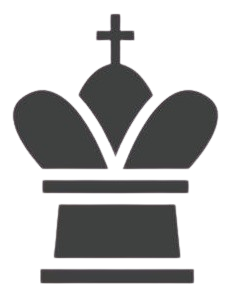
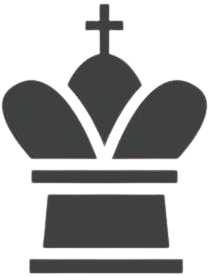
changed color screen UI

diff --git a/src/Screens/ColorScreen.jsx b/src/Screens/ColorScreen.jsx
@@ -7,16 +7,19 @@ import { useContext } from "react";
 import { UserContext } from "../Context/UserContext";
 import SocketClass from "../Socket/socketClass";
 
-function ColorScreen({ mode, waitingScreen, setWaitingScreen, setGameId }) {
+function ColorScreen({ mode, waitingScreen, setWaitingScreen, setGameId, setMode }) {
 
   const { guestId } = useContext(UserContext);
   const navigate = useNavigate();
-  const [hover, setHover] = useState();
-  const status = mode === "single player" ? "unfinished" : "waiting"
+  const status = mode === "single player" ? "unfinished" : mode === "multiplayer" ? "waiting" : null
   const [turn, setTurn] = useState(null)
   const [userColor, setUserColor] = useState(null)
+  const [selectedColor, setSelecctedColor] = useState(null)
+
+  const button = [{ image: "/white-king.png", text: "White", }, { image: "/black-king.png", text: "Black", }]
 
   async function createGame() {
+    if (!userColor) return
     const game = ApiChess.getAPI();
     const createGameInfo = {
       currentTurn: "White",
@@ -41,123 +44,79 @@ function ColorScreen({ mode, waitingScreen, setWaitingScreen, setGameId }) {
       socketClass.joinGame(newGameId)
       setWaitingScreen(true)
     }
-
     else {
       navigate(`/game/${newGameId}`)
     }
-
   }
 
-
   return (
+    <motion.div
+      initial={{ opacity: 0, y: 20 }}
+      animate={{ opacity: 1, y: 0 }}
+      transition={{ duration: 0.4, ease: "easeOut" }}
+      className="fixed inset-0  flex justify-center items-center bg-[#3E2C20]/25 z-50">
+      <div className="bg-[#FFF7EA] border border-[#E8DCC7] shadow-2xl rounded-xl p-3 h-90 w-140
+        shadow-[rgba(23,56,74,0.15)] bg-[url('/greenbg.png')]
+         bg-center bg-cover">
 
-    <div className="fixed inset-0  flex justify-center items-center bg-[#3E2C20]/25 z-50">
 
-      <div className="bg-[#FFF7EA] border border-[#E8DCC7] shadow-2xl rounded-xl p-3 h-65 w-140
-        shadow-[rgba(23,56,74,0.15)] flex items-center justify-center">
+        <div className="flex flex-col h-full gap-5 items-center">
 
-        <div
-          className=" flex flex-col items-center justify-center
-     gap-4 font-cormorant text-[#4A2F1D] ml-30">
-
-          <div className=" font-extrabold text-5xl flex-col items-center flex">
-            <img
-              src="/golden-crown.png"
-              alt="crown image"
-              className="w-12 h-12 "
-            />
-            Play Game
-          </div>
-
-          <div className="text-xs font-inter">
-            Choose your color to start a new game
-          </div>
-
-          <div className="w-80 h-65 border-2 border-[#e4d6bb] bg-[#FFF7EA] rounded-lg 
-          flex flex-col items-center justify-center">
-
-            <h1 className=" text-xl mb-4 font-bold">
+          <div className="flex flex-col items-center gap-2 mt-6">
+            <h1 className="text-3xl font-bold font-cormorant text-[#17384A]">
               Choose Your Color
             </h1>
-
-            <div className="flex  justify-between font-bold text-sm gap-4">
-
-              <div
-                onMouseEnter={() => { setHover("White") }}
-                onMouseLeave={() => { setHover(null) }}
-                onClick={
-                  () => {
-                    setTurn("White")
-                    setUserColor("White")
-                  }
-                }
-                className={`h-30 w-30  border-3 flex flex-col hover:scale-105 
-            duration-150 cursor-pointer hover:border-[#E67E00] hover:shadow-[0_0_40px_rgba(210,170,90,0.25)]
-             items-center rounded-lg  hover:text-[#E67E00] 
-            ${turn === "White" ? " text-[#E67E00] scale-105 duration-150 border-[#E67E00]"
-                    : "border-[#e4d6bb]"
-                  }
-            `}
-              >
-                <img
-                  src={
-                    turn === "White" || hover === "White" ? "/orange-white-king.png"
-                      : "/white-king.png"
-                  }
-                  alt="black piece"
-                  className="w-20 h-20 object-contain"
-                ></img>
-                <h1>
-                  White
-                </h1>
-              </div>
-
-              <div
-                onMouseEnter={() => { setHover("Black") }}
-                onMouseLeave={() => { setHover(null) }}
-                onClick={
-                  () => {
-                    setTurn("Black")
-                    setUserColor("Black")
-                  }
-                }
-                className={`h-30 w-30  border-3 flex flex-col hover:scale-105 
-            duration-150 cursor-pointer hover:border-[#E67E00] hover:shadow-[0_0_40px_rgba(210,170,90,0.25)] 
-            items-center rounded-lg s hover:text-[#E67E00] 
-            ${turn === "Black" ? "text-[#E67E00] scale-105 duration-150 border-[#E67E00]"
-                    : "border-[#e4d6bb] "
-                  }
-            `}
-              >
-                <img
-                  src={
-                    turn === "Black" || hover === "Black" ? "/orange-black-king.png"
-                      : "/black-king.png"
-                  }
-                  alt="black piece"
-                  className="w-15 h-20 object-contain"
-                ></img>
-                <h1>
-                  Black
-                </h1>
-              </div>
-
-            </div>
+            <h1 className="text-xs font-inter text-[#17384A]">
+              Pick a side and start your Game
+            </h1>
           </div>
 
-          <button className="text-xl bg-[#E67E00] text-white px-15 py-2 rounded-lg hover:bg-[#17384A] hover:text-white hover:cursor-pointer hover:ring-white ring-2 hover:scale-102 duration-150
-       active:bg-[#f40000] active:text-white"
+          <div className="flex justify-center gap-10 w-full">
 
+            {
+              button.map((color) => {
+                return (
+                  <div key={color.text}
+                    className={`border-2 w-35 border-[#35843C] h-30 rounded-lg flex 
+                       items-center justify-center flex-col font-inter font-bold text-[#226d29] hover:scale-105 transition hover:cursor-pointer ${selectedColor === color.text ? "bg-[#E6EBCF]" : ""}`}
+                    onClick={() => {
+                      setSelecctedColor(color.text)
+                      setUserColor(color.text)
+                    }}
+                  >
+                    <img className="w-21 h-22 object-contain"
+                      src={color.image}></img>
+                    <h1>{color.text}</h1>
+                  </div>
+                )
+              })
+            }
+          </div>
+
+          <button className="hover:cursor-pointer border-2 bg-[#35843C] rounded-lg font-inter
+               text-white py-2 hover:opacity-85 w-40 hover:scale-105 transition"
             onClick={() => {
               createGame()
             }}
-
           >
             Start Game
           </button>
+
+
+          <div className="flex justify-end w-full">
+            <button className="w-17 h-7 bg-[#1d4960] rounded-lg font-inter hover:opacity-85
+              text-xs text-[white] hover:cursor-pointer font-medium hover:scale-105 transition"
+              onClick={() => {
+                setMode(null)
+              }}
+            >
+              Leave
+            </button>
+          </div>
+
         </div>
       </div>
-    </div>
+    </motion.div>
 
   )
 }

diff --git a/src/Pages/ModeSelectionPage.jsx b/src/Pages/ModeSelectionPage.jsx
@@ -105,6 +105,7 @@ function ModeSelectionPage() {
               waitingScreen={waitingScreen}
               setWaitingScreen={setWaitingScreen}
               setGameId={setGameId}
+              setMode={setMode}
             />
           )
         }
